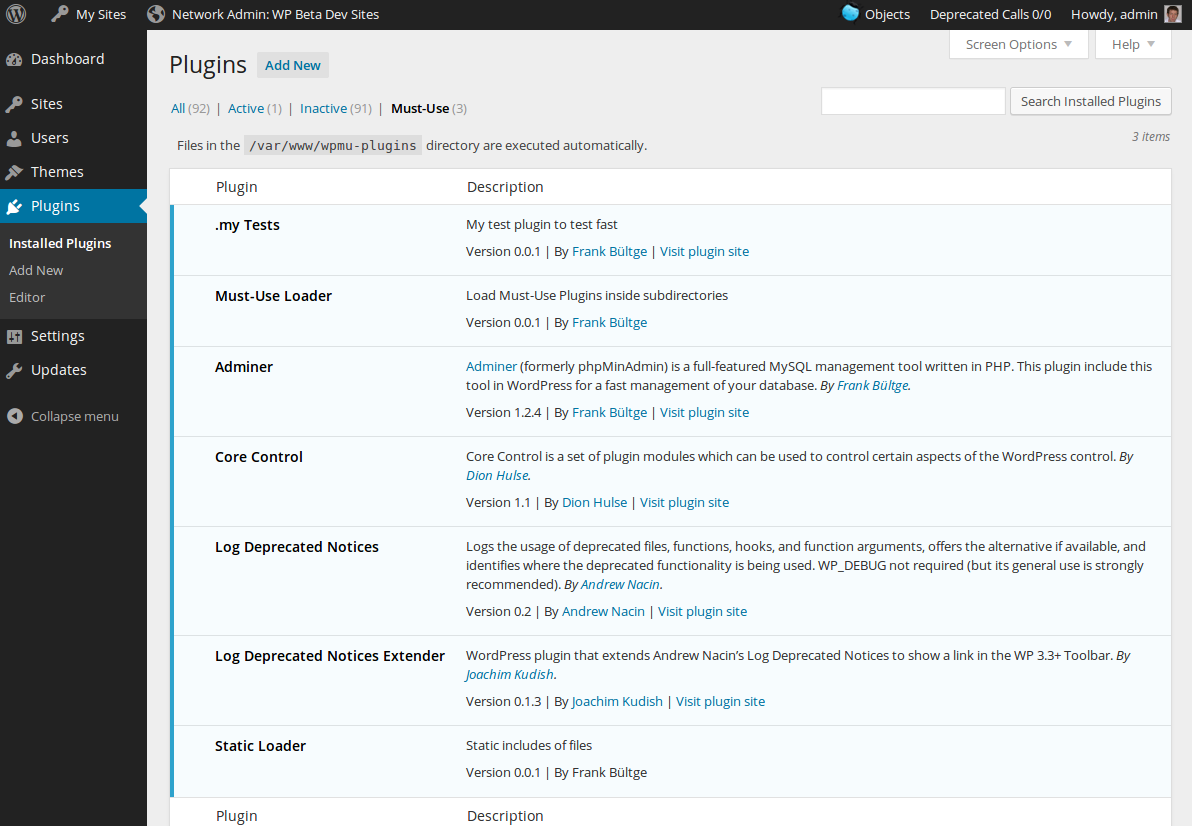
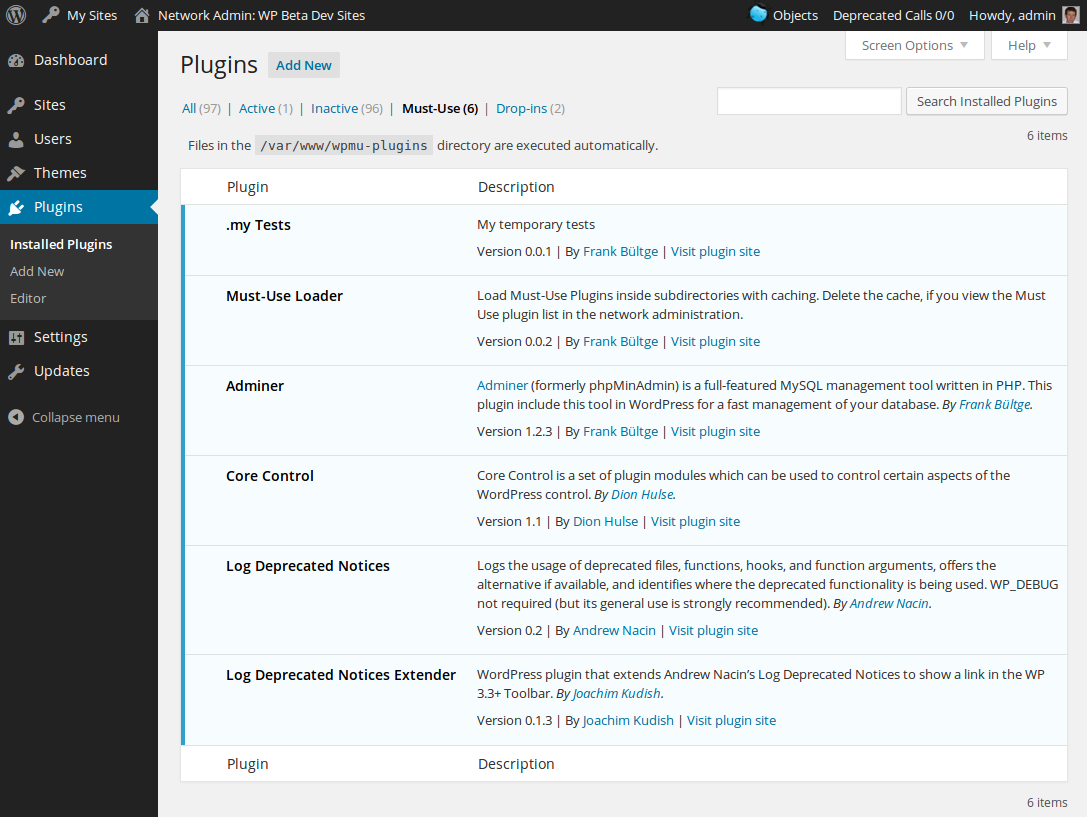
Enhance fir must use count values

diff --git a/mustuse-loader.php b/mustuse-loader.php
@@ -47,7 +47,16 @@ class Must_Use_Plugins_Subdir_Loader {
 	 * @var    bool | string
 	 */
 	private static $wpmu_plugin_dir = FALSE;
-
+	
+	/**
+	 * Store for the custom count to add this to the global of WP
+	 * 
+	 * @since  01/09/2014
+	 * @var    integer
+	 */
+	public $mustuse_total = 0;
+	
+	
 	/**
 	 * Handler for the action 'init'. Instantiates this class.
 	 *
@@ -73,10 +82,16 @@ class Must_Use_Plugins_Subdir_Loader {
 
 		// Include all plugins in subdirectories
 		$this->include_subdir_plugins();
-
+		
 		// Delete transient cache, if active on the must use plugin list in network view
 		add_action( 'load-plugins.php', array( $this, 'delete_subdir_mu_plugin_cache' ) );
-
+		
+		// Count must use plugins in subdirectory
+		add_action( 'load-plugins.php', array( $this, 'count_subdir_plugins' ), 10 );
+		
+		// Change the plugin view value
+		add_action( 'admin_footer-plugins.php', array( $this, 'change_view_values' ), 11 );
+		
 		// Add row and content for all plugins, there include via this plugin
 		add_action( 'after_plugin_row_mustuse-loader.php', array( $this, 'view_subdir_mu_plugins' ) );
 	}
@@ -149,6 +164,7 @@ class Must_Use_Plugins_Subdir_Loader {
 	 * @return  void
 	 */
 	public function include_subdir_plugins() {
+		
 		// Include all plugins in subdirectories
 		foreach ( $this->subdir_mu_plugins_files() as $plugin_file )
 			require_once( WPMU_PLUGIN_DIR . '/' . $plugin_file );
@@ -172,7 +188,58 @@ class Must_Use_Plugins_Subdir_Loader {
 			)
 			delete_site_transient( 'subdir_wpmu_plugins' );
 	}
-
+	
+	/**
+	 * Change total count for must use values
+	 * 
+	 * @since   01/09/2014
+	 * @return  void
+	 */
+	public function change_view_values() {
+		
+		$current_screen = get_current_screen();
+		if ( 'plugins-network' !== $current_screen->id )
+			return;
+		
+		$item = sprintf( _n( 'item', 'items', $this->mustuse_total ), number_format_i18n( $this->mustuse_total ) );
+		?>
+		<script type="text/javascript">
+			jQuery( document ).ready( function( $ ) {
+				var text,
+				    value,
+				    mustuse;
+				
+				// replace the brackets and set int value
+				text  = $( '.mustuse span' ).text();
+				value = text.replace( '(', '' );
+				value = parseInt( value.replace( ')', '' ) );
+				
+				// replace and add strings
+				mustuse = value + <?php echo (int) $this->mustuse_total; ?>;
+				$( '.mustuse span' ).replaceWith( '(' + mustuse + ')' );
+				mustuse = mustuse + ' <?php echo $item; ?>';
+				console.log( document.URL.search( /mustuse/ ) );
+				if ( document.URL.search( /plugin_status=mustuse/ ) != -1 )
+					$( '.tablenav .displaying-num' ).replaceWith( mustuse );
+			} );
+		</script>
+		<?php
+	}
+	
+	/**
+	 * Count must use plugins in subdirectory
+	 * 
+	 * @since   01/09/2014
+	 * @return  void
+	 */
+	public function count_subdir_plugins() {
+		
+		foreach ( $this->subdir_mu_plugins_files() as $plugin_file ) {
+			
+			$this->mustuse_total ++;
+		}
+	}
+	
 	/**
 	 * Add rows for each sub-plugin under this plugin when listing mu-plugins in wp-admin
 	 *
@@ -180,9 +247,9 @@ class Must_Use_Plugins_Subdir_Loader {
 	 * @return  void
 	 */
 	public function view_subdir_mu_plugins() {
-
+		
 		foreach ( $this->subdir_mu_plugins_files() as $plugin_file ) {
-
+			
 			$data = get_plugin_data( WPMU_PLUGIN_DIR . '/' . $plugin_file );
 
 			$name        = empty( $data['Name'] ) ? '?' : $data['Name'];
